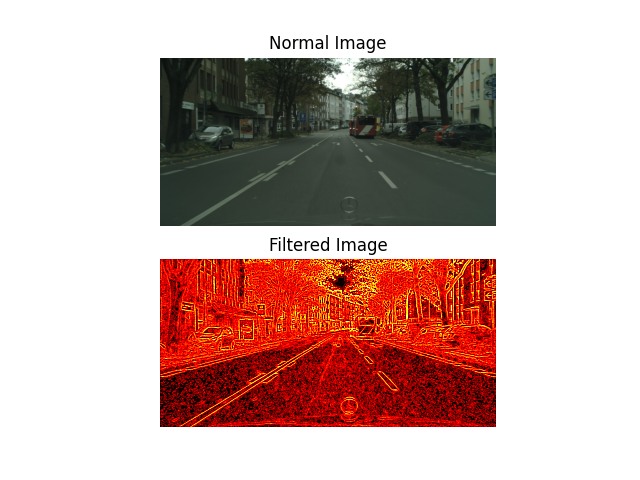
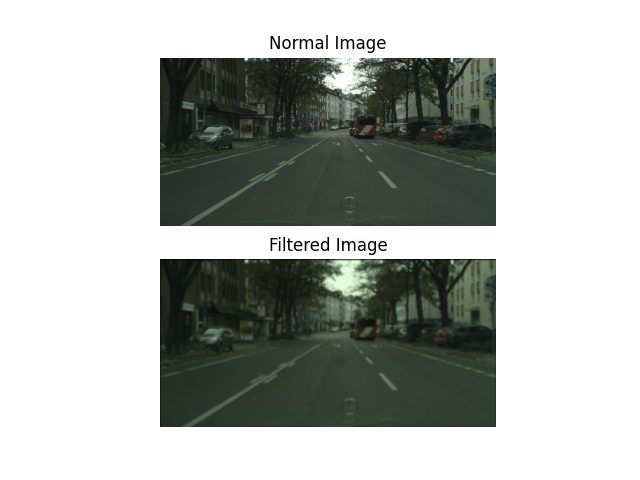
need to create 1 color channel

Changed region(s): [[0.25, 0.5312, 0.7812, 0.9062]]

diff --git a/part_1/processing_functions.py b/part_1/processing_functions.py
@@ -18,15 +18,24 @@ GREEN_Y_COORDINATES = List[int]
 
 
 def preprocess_image(c_image: np.ndarray) -> np.ndarray:
-    # TODO: add preprocessing
     #blurred_image = gaussian_blur(c_image)
+    #blured_image_uint8 = np.uint8(blurred_image)
+
     kernel = find_traffic_light_kernel()
-    convoluted_image = sg.convolve(c_image, kernel, mode='same', method='fft')
-    image_uint8 = np.uint8(convoluted_image)
-    plt.imshow(image_uint8, cmap='hot')
+
+    green_normalized_kernel = normalized_kernel[:, :, 0]
+    plt.imshow(green_normalized_kernel, cmap='gray')
     plt.show()
 
-    return convoluted_image
+
+
+    convoluted_image = sg.convolve(c_image, normalized_kernel, mode='same')
+    green_channel = convoluted_image[:, :, 1]
+    image_uint8 = np.uint8(convoluted_image)
+    plt.imshow(green_channel, cmap='gray')
+    plt.show()
+
+    return image_uint8
 
 
 def gaussian_kernel_3d(kernel_size, sigma):
@@ -37,7 +46,9 @@ def gaussian_kernel_3d(kernel_size, sigma):
 
 
 def gaussian_blur(image: np.ndarray) -> np.ndarray:
-    blurred_image = sg.convolve(image, gaussian_kernel_3d(21, 1), mode='same')
+    blurred_image = sg.convolve(image, gaussian_kernel_3d(7, 1), mode='same', method='fft')
+    image_uint8 = np.uint8(blurred_image)
+
     return blurred_image
 
 
@@ -52,6 +63,25 @@ def find_green_coordinates(image: np.ndarray) -> Tuple[GREEN_X_COORDINATES, GREE
 def find_traffic_light_kernel() -> np.ndarray:
     kernel = Image.open("green_light_2.png")
     numpy_kernel = np.array(kernel)
-    normalized_kernel = numpy_kernel / np.sum(numpy_kernel)
 
-    return normalized_kernel
+    return numpy_kernel
+
+def max_suppression(image: np.ndarray, kernel_size: int = 21) -> np.ndarray:
+    max_image = maximum_filter(image, size=kernel_size, mode='constant')
+    max_image = np.uint8(max_image)
+    plt.imshow(max_image)
+    values = compare_max_supression(image, max_image)
+    return values
+
+def compare_max_supression(image: np.ndarray, max_image: np.ndarray) -> Tuple[RED_X_COORDINATES, RED_Y_COORDINATES, GREEN_X_COORDINATES, GREEN_Y_COORDINATES]:
+    # return pixels that have same value in both images
+    red_x_coordinates = []
+    red_y_coordinates = []
+    green_x_coordinates = []
+    green_y_coordinates = []
+    for x in range(image.shape[0]):
+        for y in range(image.shape[1]):
+            if image[x][y][1] == max_image[x][y] and max_image[x][y] > 0:
+                green_x_coordinates.append(x)
+                green_y_coordinates.append(y)
+    return red_x_coordinates, red_y_coordinates, green_x_coordinates, green_y_coordinates

diff --git a/part_1/part_1.py b/part_1/part_1.py
@@ -41,6 +41,7 @@ def find_tfl_lights(c_image: np.ndarray,
 
     preprocessed_image = processing_functions.preprocess_image(c_image)
     output_functions.show_convolution(c_image, preprocessed_image, kwargs['image_name'])
+    return processing_functions.max_suppression(preprocessed_image)
     red_coordinates = processing_functions.find_red_coordinates(preprocessed_image)
     green_coordinates = processing_functions.find_green_coordinates(preprocessed_image)
     
